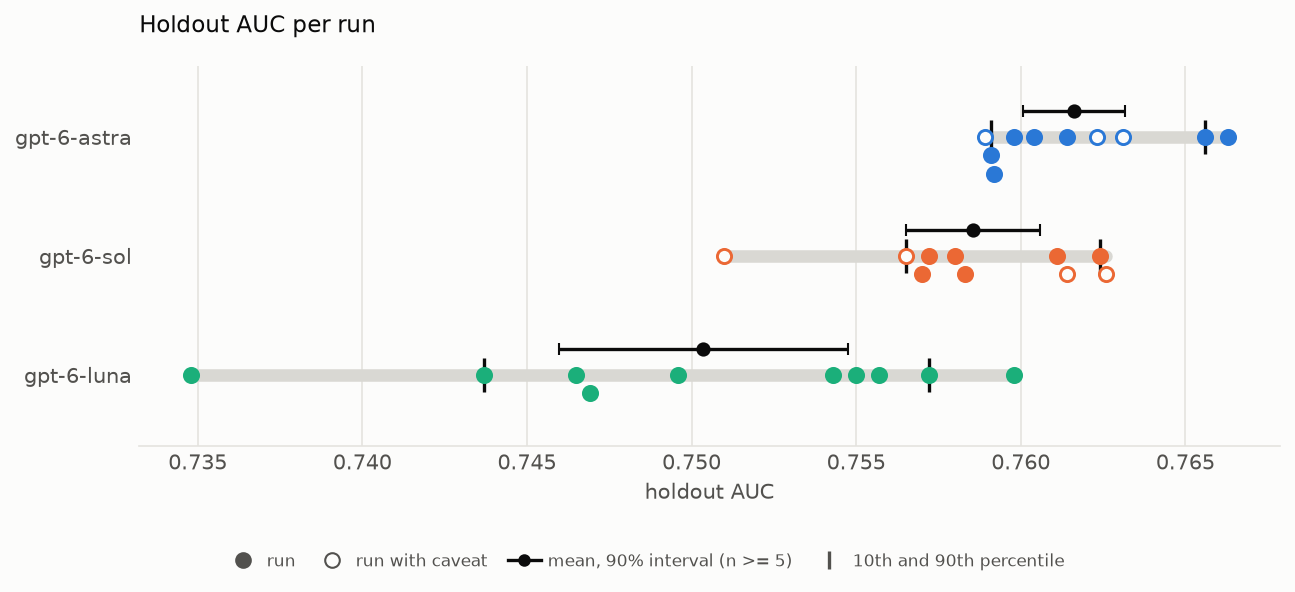
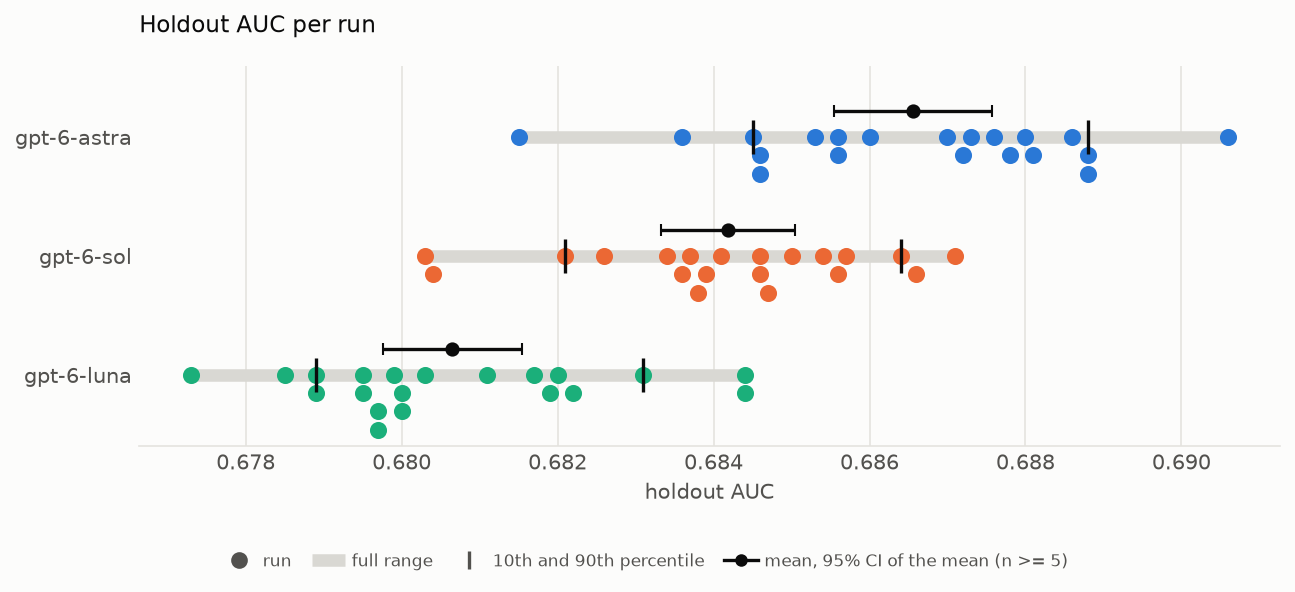
Post and plots for the minimal3 runs
New setup (train 2005, eval and holdout 2006; 1 hour; 20 runs per LLM)
and results from xgboost-autoresearch-minimal3-runs at beb875b: the four
summary plots, updated numbers, the calendar finding, links to minimal3,
and the Pages baseurl for xgboost-autoresearch3.

diff --git a/docs/index.md b/docs/index.md
@@ -6,30 +6,32 @@ title: "One Run Is Not Enough: How Much AI Agent Results Vary <br>in Data Scienc
 
 #### by Szilard Pafka and Eduardo Ariño de la Rubia
 
-**TL;DR** We used AI agents powered by three different large language models (LLMs) to autonomously tune an XGBoost model, running each LLM 10 times with the same setup and the same instructions. On average, the agents considerably improve the starting model, and the three LLMs rank clearly against one another. But results vary a lot from run to run, so much that the ranges of the different LLMs overlap. One run of a given setup is therefore not enough, either to judge how well an agent performs or to compare LLMs.
+**TL;DR** We used AI agents powered by three different large language models (LLMs) to autonomously tune an XGBoost model, running each LLM 20 times with the same setup and the same instructions. Every run improves the starting model, and on average the three LLMs rank clearly against one another. But results vary a lot from run to run, so much that the ranges of the different LLMs overlap. One run of a given setup is therefore not enough, either to judge how well an agent performs or to compare LLMs.
 
 ---
 
 In our [previous project](https://szilard.github.io/xgboost-autoresearch/) we showed that AI coding agents can automate much of a data scientist's trial-and-error work: they research ideas, engineer features, tune the hyperparameters of an XGBoost model, and keep what works. However, the results we presented came from a single run of a single agent, and AI agents are not deterministic: given the same task twice, the same agent will try different ideas, in a different order, and end up with a different model. So a single run is just one sample from a wide range of possible outcomes. It does not necessarily tell us how good a setup really is, or whether one LLM is better than another. To answer those questions, we rebuilt the project into a minimal, self-contained building block for a single run, and added an orchestrator that runs it many times, fully automatically.
 
-The task is the same as before: predict whether a flight will be delayed, using airline data. The agent has 2 hours to improve a starter XGBoost model on its own. It searches the web for ideas, edits the code to engineer new features and tune the hyperparameters, keeps the changes that improve the AUC (area under the ROC curve) on an evaluation dataset and discards the rest. Every model the agent keeps is then scored on a separate holdout dataset that the agent never sees, so we measure how well the models really generalize, not just the score the agent was optimizing. (For simplicity, the holdout set is a random sample of the same year's flights, so this tests generalization to unseen flights, not to future dates.) Compared to the first project, the setup ([xgboost-autoresearch-minimal2](https://github.com/szilard/xgboost-autoresearch-minimal2)) is simpler and more standardized. The orchestrator ([xgboost-autoresearch-minimal2-runs](https://github.com/szilard/xgboost-autoresearch-minimal2-runs)) runs the experiment repeatedly without any human steering: each run starts in a fresh, isolated Docker container with identical instructions, and automatic checks afterwards verify that the agent followed the rules. With this, we ran three OpenAI models, gpt-6-luna, gpt-6-sol and gpt-6-astra (Luna, Sol and Astra for short), at maximum reasoning effort, 10 times each.
+The task is similar to before: predict whether a flight will be delayed, using airline data. But now the model has to work on a later year than the one it was trained on: the training data are flights from 2005, while the evaluation dataset and a separate holdout dataset are disjoint samples of flights from 2006. The agent has 1 hour to improve a starter XGBoost model on its own. It searches the web for ideas, edits the code to engineer new features and tune the hyperparameters, keeps the changes that improve the AUC (area under the ROC curve) on the evaluation dataset and discards the rest. Every model the agent keeps is then scored on the holdout dataset, which the agent never sees, so we measure how well the models really generalize, not just the score the agent was optimizing. Compared to the first project, the setup ([xgboost-autoresearch-minimal3](https://github.com/szilard/xgboost-autoresearch-minimal3)) is simpler and more standardized. The orchestrator ([xgboost-autoresearch-minimal3-runs](https://github.com/szilard/xgboost-autoresearch-minimal3-runs)) runs the experiment repeatedly without any human steering: each run starts in a fresh, isolated Docker container with identical instructions, the holdout data and the scoring scripts are out of the agent's reach until it has finished, and automatic checks afterwards verify that the agent followed the rules. With this, we ran three OpenAI models, gpt-6-luna, gpt-6-sol and gpt-6-astra (Luna, Sol and Astra for short), at maximum reasoning effort, 20 times each. (An [earlier version of this study](https://szilard.github.io/xgboost-autoresearch2/) gave the agents 2 hours and drew all three datasets from the same year; its results are not comparable to the ones below.)
 
 <img src="holdout_auc_beeswarm.png" style="width: 700px">
 
-The first plot shows the final holdout AUC of each run (higher is better; the starter model scores 0.7155). Each dot shows the holdout AUC of one 2-hour run's selected model, the kept model with the highest evaluation AUC (hollow dots mark runs in which the agent glanced at a data preparation script it was not supposed to read, without accessing any holdout data; their results are in line with the rest). The black dot with whiskers marks each LLM's mean with its 90% confidence interval, which shows how precisely we know the average, while the short vertical ticks mark the 10th and 90th percentiles, which show the spread of single runs. On average the three LLMs rank clearly: Astra comes first, then Sol, then Luna. But the runs of each LLM are spread widely. The gap between Luna's best and worst run is about 0.025 AUC, more than half of the typical improvement the agents achieve over the starter model; Sol's range is about half of that. The ranges also overlap: Luna's best run beats the worst runs of both Sol and Astra.
+The first plot shows the final holdout AUC of each run (higher is better; the starter model scores 0.6725). Each dot shows the holdout AUC of one 1-hour run's selected model, the kept model with the highest evaluation AUC. (All 60 runs passed the automatic integrity checks. Ten carry a minor caveat, nine of them for keeping a change that only tied the best evaluation AUC, and are shown like the rest.) The black dot with whiskers marks each LLM's mean with its 95% confidence interval, which shows how precisely we know the average, while the short vertical ticks mark the 10th and 90th percentiles, which show the spread of single runs. On average the three LLMs rank clearly: Astra comes first, then Sol, then Luna. But the runs of each LLM are spread widely. The gap between an LLM's best and worst run is 0.007 to 0.009 AUC. That is more than half of the typical improvement the agents achieve over the starter model (0.008 for Luna, 0.012 for Sol and 0.014 for Astra on average), and more than the 0.006 between the averages of the best and the worst LLM. The ranges also overlap: Luna's best run beats half of Sol's runs and the two worst runs of Astra, and Sol's best run beats half of Astra's runs.
 
 <img src="holdout_auc_pairwise.png" style="width: 700px">
 
-The second plot shows how often a single run would rank two LLMs wrong. For each pair of LLMs, it gives the probability that a randomly picked run of the better LLM beats a randomly picked run of the other one. Astra beats Luna in 96% of pairings, but Sol still beats Astra in about 24% of pairings, and Luna beats Sol in about 12%. These are point estimates from 10 runs per LLM; the grey bars in the plot show how uncertain they are. So comparing two LLMs based on a single run each would give the wrong answer surprisingly often, even when one of them is clearly better on average.
+The second plot shows how often a single run would rank two LLMs wrong. For each pair of LLMs, it gives the probability that a randomly picked run of the better LLM beats a randomly picked run of the other one. Astra beats Luna in 98% of pairings and Sol beats Luna in 91%, but Sol still beats Astra in about 20% of pairings. These are point estimates from 20 runs per LLM; the grey bars in the plot show how uncertain they are. So comparing two LLMs based on a single run each would give the wrong answer surprisingly often, even when one of them is clearly better on average.
 
 <img src="holdout_auc_path_median.png" style="width: 700px">
 
 <img src="holdout_auc_path_panels.png" style="width: 100%">
 
-The next two plots show where this variation comes from. Each thin line traces one run, experiment by experiment, and each step up is a change the agent kept; the bold lines are the median of each LLM's runs. Nearly all runs start with the same obvious move, raising the number of trees, which lifts the AUC to about 0.73. After that the paths diverge: some runs find a key idea early and climb quickly, while others get stuck on a plateau for dozens of experiments. Part of the gap between the LLMs comes down to a single idea: every Sol and Astra run used the exact calendar date of the flight as a feature, which lets the model learn which days were unusually disrupted (this works because in our simple setup, the training, evaluation and holdout datasets are non-overlapping random samples of the same year's flights, so they share the same days), while Luna's runs never added an explicit calendar-date feature and relied mostly on tuning hyperparameters instead. But a good idea alone does not guarantee a good result: Sol's weakest run also used the date. How far a run gets therefore depends partly on luck: which ideas the agent happens to try, in what order, and how well it follows them up.
+The next two plots show where this variation comes from. Each thin line traces one run over its hour, and each step up is a change the agent kept; the bold lines are the median of each LLM's runs. Most runs make the same move early on, shallower trees (depth 4 instead of 6, often with more trees at a lower learning rate), which lifts the holdout AUC from 0.6725 to about 0.678. Simply adding trees, by contrast, lowers the AUC here: a model that fits the training year more closely does worse on the next one. The medians of Sol and Astra make their first gain within about 3 minutes and are level at the half hour; after that Sol's median barely moves, while Astra's keeps climbing, so most of the gap between the two opens in the second half hour. Luna gets going later, runs fewer experiments in the hour (30 on average, against 45 for Sol and 47 for Astra), and its median stays around 0.678 to 0.680 from 15 minutes on. Beyond the medians, the paths of single runs diverge: some runs find a key idea early and climb quickly, while others get stuck on a plateau for 20 minutes or more.
 
-In conclusion, today's AI agents consistently deliver considerable improvements on data science tasks like this one, but the size of the improvement varies a lot from run to run, even with identical setup and instructions. This has two practical consequences. First, to compare agents, LLMs, prompts or any other part of the setup, one run is not enough. You need repeated runs and should look at the distribution of the results, not a single number. Second, if you just want a good model, it pays to run the agent several times and pick the best run, judged on data the agent has not seen. For an unbiased estimate of the final model's performance, evaluate it on another untouched test set. Both the [single-run building block](https://github.com/szilard/xgboost-autoresearch-minimal2) and the [multi-run orchestrator](https://github.com/szilard/xgboost-autoresearch-minimal2-runs) are open source, so you can use them to test your own agents, LLMs and setups, ideally with more than one run each.
+Part of the gap between the LLMs comes down to how they handle the calendar. The starter model treats the month and the day of the month as categories, so together they identify the exact date, which lets the model pick up patterns of particular days of 2005 that do not carry over to 2006. (In the earlier same-year version of this study, the exact date was a key feature, since all three datasets shared the same days.) Astra dropped the day-of-month category in 19 of its 20 runs, often among its first changes, and 15 of its final models use holiday features instead (such as the number of days to the nearest holiday). Sol dropped it in 13 runs, mostly in favor of the day of the year as a number, and Luna in only 4, its three best runs among them. Among Luna's and Sol's runs, those that dropped it score about 0.003 higher on the holdout set on average. But a good idea alone does not guarantee a good result: Astra's weakest run also dropped the day of the month and used holidays. How far a run gets therefore depends partly on luck: which ideas the agent happens to try, in what order, and how well it follows them up.
 
-License: [CC BY 4.0](https://github.com/szilard/xgboost-autoresearch2/blob/main/docs/LICENSE.md)
+In conclusion, today's AI agents consistently improve the model on data science tasks like this one (all 60 of our runs beat the starter model on the holdout set), but the size of the improvement varies a lot from run to run, even with identical setup and instructions. This has two practical consequences. First, to compare agents, LLMs, prompts or any other part of the setup, one run is not enough. You need repeated runs and should look at the distribution of the results, not a single number. Second, if you just want a good model, it pays to run the agent several times and pick the best run, judged on data the agent has not seen. For an unbiased estimate of the final model's performance, evaluate it on another untouched test set. Both the [single-run building block](https://github.com/szilard/xgboost-autoresearch-minimal3) and the [multi-run orchestrator](https://github.com/szilard/xgboost-autoresearch-minimal3-runs) are open source, so you can use them to test your own agents, LLMs and setups, ideally with more than one run each.
+
+License: [CC BY 4.0](https://github.com/szilard/xgboost-autoresearch3/blob/main/docs/LICENSE.md)
 
 <script data-goatcounter="https://szilard.goatcounter.com/count" async src="https://gc.zgo.at/count.js"></script>

diff --git a/README.md b/README.md
@@ -2,9 +2,9 @@
 
 #### by Szilard Pafka and Eduardo Ariño de la Rubia
 
-**TL;DR** We used AI agents powered by three different large language models (LLMs) to autonomously tune an XGBoost model, running each LLM 10 times with the same setup and the same instructions. On average, the agents considerably improve the starting model, and the three LLMs rank clearly against one another. But results vary a lot from run to run, so much that the ranges of the different LLMs overlap. One run of a given setup is therefore not enough, either to judge how well an agent performs or to compare LLMs.
+**TL;DR** We used AI agents powered by three different large language models (LLMs) to autonomously tune an XGBoost model, running each LLM 20 times with the same setup and the same instructions. Every run improves the starting model, and on average the three LLMs rank clearly against one another. But results vary a lot from run to run, so much that the ranges of the different LLMs overlap. One run of a given setup is therefore not enough, either to judge how well an agent performs or to compare LLMs.
 
 
-Full description (blog post) in the [GitHub Pages here](https://szilard.github.io/xgboost-autoresearch2).
+Full description (blog post) in the [GitHub Pages here](https://szilard.github.io/xgboost-autoresearch3).
 
 License: [CC BY 4.0](docs/LICENSE.md)
